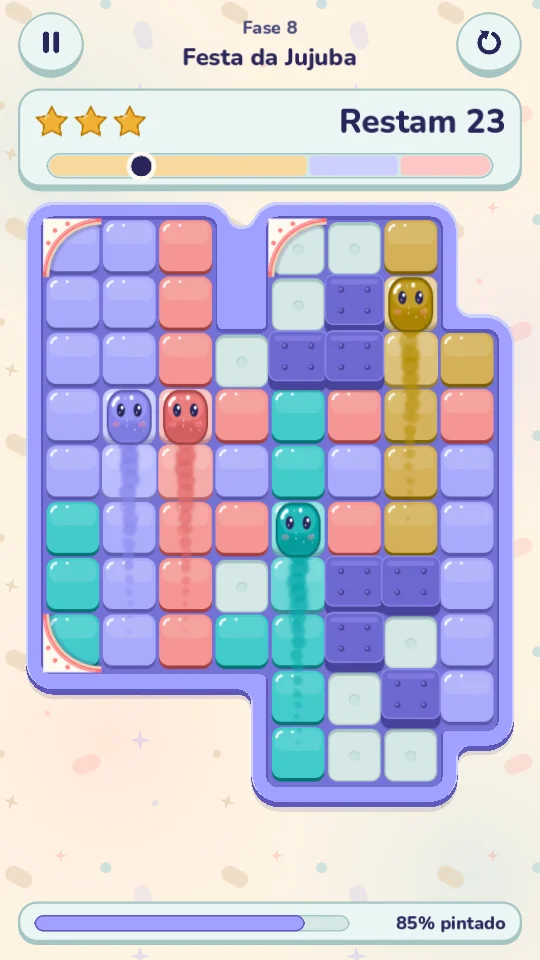
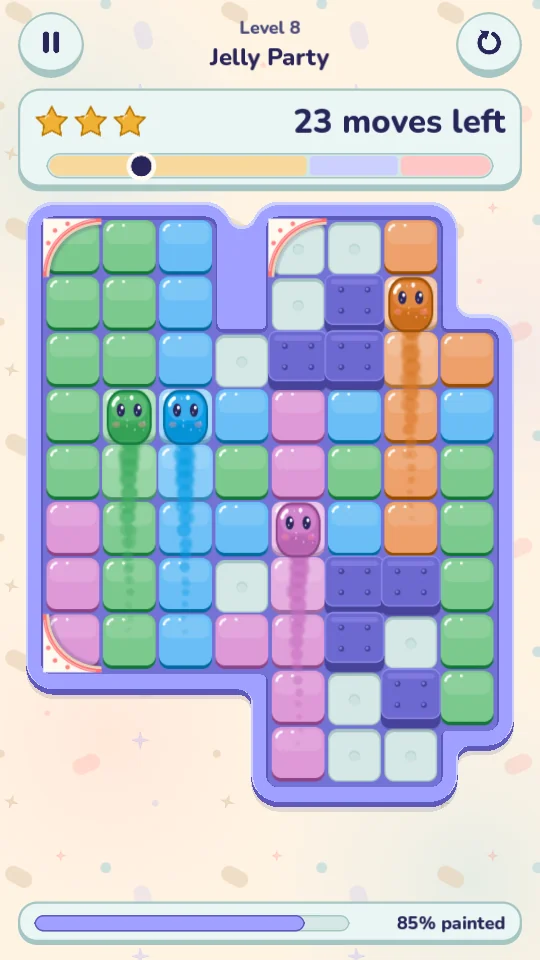
docs: update the README for v1.0.0
## Description

Update the README for the first release, with English shots and the new features.

## What

- Describe the 20 levels, the one-jelly mode, random levels, replay, English and the dark mode. Why: the old text covered 8 levels in pt-BR only
- Add a light and dark gallery and capture all shots again in English. Why: show the release as it is
- Update the harness args and events table. Why: match the final harness header
- Remove first-levels.webp. Why: no section uses it now

Changed region(s): [[0.0593, 0.2188, 0.9185, 0.8125], [0.3259, 0.0, 0.9481, 0.1562], [0.7407, 0.9375, 0.9481, 0.9688]]

diff --git a/README.md b/README.md
@@ -16,9 +16,9 @@
 > A free portrait mobile game, made with Godot 4.7.2 and GDScript. Each sound and each piece of music comes from code.
 
 <p align="center">
-  <img src="docs/readme/home.webp" width="260" alt="The home screen with the title Trilha Jujuba, a live demo board and the Jogar and Fases buttons">
+  <img src="docs/readme/home.webp" width="260" alt="The home screen with the title Trilha Jujuba, a live demo board, the theme button at the top right and the Play, Levels and Random level buttons">
   <img src="docs/readme/swipe-paint.webp" width="260" alt="Level 8 in the middle of a swipe: four jellies slide down and leave trails of paint">
-  <img src="docs/readme/result-card.webp" width="260" alt="The result card with three stars, the time, the move count and the star ranges">
+  <img src="docs/readme/result-card.webp" width="260" alt="The result card with three stars, the time, the move count, the star ranges and the Watch replay button">
 </p>
 
 ## The game
@@ -27,27 +27,42 @@
 - One to four jellies sit on the board. Each jelly has its own color.
 - Swipe to move the jellies. Each tile that a jelly touches takes its color.
 - Paint all the floor tiles to complete the level. Use as few moves as possible to get three stars.
-- The game has 8 levels, a star score for each level and a record of your best result.
-- The interface text is in Brazilian Portuguese.
+- The game has 20 levels, a one-jelly mode and endless random levels.
+- Watch a replay of your game after each win or defeat.
+- Play in English or in Brazilian Portuguese, in a light or a dark theme.
 
 ## Gallery
 
 | | |
 |---|---|
-| ![The level select screen with 8 level cards, the stars of each level, a "Nova" tag and two locked levels](docs/readme/level-select.webp) | ![Level 8 at the start: four jellies, dark obstacle blocks and three curved rails](docs/readme/level-start.webp) |
-| The level select screen shows your stars. A level opens when you get one star on the level before it. | Level 8 at the start, with four jellies, obstacles and curved rails. |
+| ![The level select screen: the first page of level cards, the stars of each level, the one-jelly switch and the page buttons](docs/readme/level-select.webp) | ![Level 8 at the start: four jellies, dark obstacle blocks and three curved rails](docs/readme/level-start.webp) |
+| The level select screen shows your stars on three pages. A level opens when you get one star on the level before it. | Level 8 at the start, with four jellies, obstacles and curved rails. |
 | ![A swipe to the right: the red and purple jellies slide and leave paint trails behind them](docs/readme/swipe-trails.webp) | ![The win wave: the tiles jump and flash while glitter flies from the last jelly](docs/readme/win-wave.webp) |
 | All the jellies slide at the same time and paint their path. | The last tile starts the win wave across the board. |
-| ![The HUD in tension: "Restam 3" in red and a red frame around the move meter](docs/readme/tension.webp) | ![The defeat card: a sad jelly, "Acabaram os movimentos" and the painted percentage](docs/readme/defeat-card.webp) |
+| ![The HUD in tension: three moves left in red and a red frame around the move meter](docs/readme/tension.webp) | ![The defeat card: a sad jelly, the painted percentage, Retry and Watch replay](docs/readme/defeat-card.webp) |
 | Near the move limit, the HUD turns red and the music becomes tense. | When the moves stop, the defeat card shows how much of the path you painted. |
-| ![The pause dialog with Continuar, Fases and the switches for music, sound effects, vibration and reduced motion](docs/readme/pause.webp) | ![Level 2 at the start: one orange jelly and a column of obstacles](docs/readme/first-levels.webp) |
-| The pause dialog holds the music, sound, vibration and reduced motion switches. | The first levels teach the rules with one jelly. |
+| ![A replay in progress: the board plays the moves again, with the move counter and "Tap to go back" at the bottom](docs/readme/replay.webp) | ![Level 8 in one-jelly mode: one jelly and some new walls on the same board](docs/readme/one-jelly.webp) |
+| Watch your own game again, move by move. | One-jelly mode: the same level with one jelly, a new puzzle and its own stars. |
+| ![A random level: a new board, with "Random level" and the seed in the HUD](docs/readme/random-level.webp) | ![The pause dialog with Resume, Levels, the one-jelly switch, and the music, sound effects, vibration, reduced motion, language and dark mode rows](docs/readme/pause.webp) |
+| Random levels never end. Each one has a seed and a solution. | The pause dialog holds the modes and the settings. |
+
+### Light and dark
+
+| Light | Dark |
+|---|---|
+| ![The home screen in the light theme, with the moon button at the top right](docs/readme/theme-home-light.webp) | ![The home screen in the dark theme, with the sun button at the top right](docs/readme/theme-home-dark.webp) |
+| ![The level select screen in the light theme](docs/readme/theme-levels-light.webp) | ![The level select screen in the dark theme](docs/readme/theme-levels-dark.webp) |
+| ![Level 8 in the middle of a swipe, in the light theme](docs/readme/theme-play-light.webp) | ![Level 8 in the middle of a swipe, in the dark theme](docs/readme/theme-play-dark.webp) |
+| ![The pause dialog in the light theme](docs/readme/theme-pause-light.webp) | ![The pause dialog in the dark theme](docs/readme/theme-pause-dark.webp) |
+
+The jellies keep the same colors in the two themes. Tap the moon or the sun at the top right of the home screen to change the theme.
 
 ## Contents
 
 - [The game](#the-game)
 - [Gallery](#gallery)
 - [How to play](#how-to-play)
+- [Modes](#modes)
 - [Features](#features)
 - [Download](#download)
 - [Build from source](#build-from-source)
@@ -75,7 +90,7 @@
 
 - A swipe counts as a move only when at least one jelly changes its position.
 - A swipe into a wall does not count. The jellies only give a small nudge.
-- Each level has a move limit. The HUD shows the moves that remain ("Restam").
+- Each level has a move limit. The HUD shows the moves that remain.
 - Near the limit, the tension starts: the meter turns red and the music changes.
 
 ### Win, lose and stars
@@ -87,10 +102,42 @@
 - The move meter shows the star ranges. When a move drops a star, the star falls from the HUD.
 - The result card shows your time, your moves and the move range for 3 stars.
 
+## Modes
+
+### Levels
+
+- 20 levels on three pages of the level select screen. You can get 60 stars.
+- Level 1 is always open. A level opens when you get one star on the level before it, in any mode.
+- The level hints teach the rules: the curved rails, a stopped jelly as a wall, and two jellies that go to the same tile.
+
+### One-jelly mode
+
+- Turn it on with the "1 jelly" switch on the level select screen, or with the "One jelly" switch in the pause dialog.
+- Each level with two or more jellies becomes a new puzzle with one jelly. Some floor tiles become walls.
+- Levels 1 to 3 have one jelly already, so they do not change.
+- The mode has its own minimum moves, its own stars and its own records.
+- When you change the mode in the pause dialog, the level starts again when you continue.
+
+### Random levels
+
+- Push "Random level" on the home screen, or "New random" on the result card or the defeat card.
+- Each random level comes from a seed. The HUD shows the seed.
+- The game makes a new board, solves it and keeps it only when the puzzle is good. A short loading screen can show during this work.
+- A random level has 1 or 2 jellies, or 1 jelly in one-jelly mode.
+- Random levels give stars, but the game keeps no record of them.
+
+### Replay
+
+- After a win or a defeat, push "Watch replay" on the card.
+- The board goes back to the start and plays your moves again, one by one.
+- Tap the screen, or push Esc, to stop the replay.
+
 ## Features
 
-- **8 levels** with 1 to 4 jellies, obstacles and curved rails. Each level has a name.
-- **Star score and records.** The game keeps the stars, the best move count and the best time of each level.
+- **20 levels** with 1 to 4 jellies, obstacles and curved rails. Each level has a name.
+- **Star score and records.** The game keeps the stars, the best move count and the best time of each level, in each mode.
+- **Two languages.** English and Brazilian Portuguese, with the level names. The game uses the language of the device. Change it in the pause dialog.
+- **Light and dark themes.** A dark "night candy" palette. Use the round button at the top right of the home screen, or the "Dark mode" row below "Language" in the pause dialog. The theme changes at once, behind a short cover. The game stays on the same screen and in the same state, also in a replay or a random level. The game keeps your choice. With no choice, it follows the device.
 - **Procedural audio.** A script makes all 17 sound effects and the 2 music loops from code. The game keeps them as WAV files.
 - **Adaptive music.** A calm loop plays during the level. The tense loop starts near the move limit, on the beat.
 - **The music opens as you paint.** A filter on the music opens as the board fills with paint.
@@ -99,7 +146,7 @@
 - **Live demo board.** The home screen plays a small level again and again behind the buttons.
 - **Reduced motion.** A switch in the pause dialog makes the shake, the waves, the hit-stop and the particles smaller.
 - **Haptics.** A short vibration when the jellies stop, on phones only. A switch in the pause dialog turns it off.
-- **Performance panel.** Press F3, or long-press the "Pausa" title in the pause dialog. It shows FPS, frame, script, draw and render times, draw calls and the device and GPU names.
+- **Performance panel.** Press F3, or long-press the title of the pause dialog. It shows FPS, frame, script, draw and render times, draw calls and the device and GPU names.
 - **Light on the GPU.** The board art and the vector UI art are baked into atlases, to keep the draw calls low on phones.
 - **Keyboard.** Arrow keys or WASD to swipe, R to restart, Esc or P to pause, F3 for the performance panel.
 
@@ -154,11 +201,11 @@ On WSL, `tools/export.sh` does the full export. It checks the levels, loads each
 
 - `autoload/`: the global nodes: `Game`, `Bus` (signals), `Save`, `Sfx`, `Music`, `Feel`, `Tuning`, `Harness` and `PerfPanel`.
 - `scenes/main/`: the main scene. `scenes/dev/` holds the board and UI lab scenes, which the exports do not include.
-- `scripts/core/`: the pure rules: level parser, level data, par data, slide rules, score rules, session and solver.
-- `scripts/board/`: the board view: jellies, swipe playback, ceremonies, effects, texture bank and the demo board.
-- `scripts/ui/`: the screens, the HUD, the cards, the pause dialog, the text strings and the theme.
+- `scripts/core/`: the pure rules: level parser, level data, par data, slide rules, score rules, session, solver, one-jelly variants and the random level generator.
+- `scripts/board/`: the board view: jellies, swipe playback, replay, ceremonies, effects, texture bank and the demo board.
+- `scripts/ui/`: the screens, the HUD, the cards, the pause dialog, the loading screen, the replay overlay, the text strings in two languages and the theme.
 - `scripts/audio/`: the audio bank and the audio tuning. `scripts/input/` holds the swipe input.
-- `tools/`: the audio bake, the level solver, the load check and `export.sh`.
+- `tools/`: the audio bake, the level solver, the random level check, the load check and `export.sh`.
 - `audio/`: the baked WAV files. `art/icon/` holds the Android icons. `ui/fonts/` holds the Nunito font.
 - `docs/readme/`: the images of this README.
 - `PRIMITIVES.md`: the inventory of the shared contracts of the code.
@@ -171,10 +218,16 @@ Check that each level has a solution and that `par_data.gd` agrees with it:
 godot --headless --path . --script res://tools/levels_tool.gd -- --check
 ```
 
-After a level change, write the new minimum moves into `par_data.gd`:
+After a level change, write the new minimum moves and the one-jelly variants into `par_data.gd`:
 
 ```sh
 godot --headless --path . --script res://tools/levels_tool.gd -- --write
+```
+
+Check the random level generator on 200 seeds:
+
+```sh
+godot --headless --path . --script res://tools/random_tool.gd -- --count=200
 ```
 
 Make all the WAV files again from the code in `tools/audio/`:
@@ -189,12 +242,26 @@ The `Harness` autoload reads arguments after `--`. With no argument, it does not
 
 | Argument | What it does |
 |---|---|
-| `--level=<n>` | Starts level n (1 to 8). |
+| `--level=<n>` | Starts level n (1 to 20). |
 | `--moves=<UDLR>` | Sends the swipes as touch drags, for example `--moves=URUUR`. |
 | `--keys=<UDLR>` | Sends the swipes as key presses. |
-| `--solve` | Plays the solution of the level with the minimum moves. |
+| `--solve` | Plays the solution of the level with the minimum moves. It also works in one-jelly mode and on a random level. |
 | `--play-all` | Solves each level in sequence. |
 | `--screen=home\|levels\|pause` | Opens that screen. `pause` opens after the scripted moves. |
+| `--page=<n>` | With `--screen=levels`, opens page n of the level select screen. |
+| `--solo` | Turns on the one-jelly mode. Needs `--save`. `--solve` and `--play-all` then play the one-jelly version. |
+| `--random[=<seed>]` | Plays a random level, with this seed or a new seed. Does not combine with `--level`, `--play-all` or `--screen`. |
+| `--random-hold=<ms>` | Holds the random level for this time, so the loading screen shows. |
+| `--random-map` | Prints each row of the random map. |
+| `--replay` | Plays the replay when the result card or the defeat card is at rest. Needs `--level` or `--random`. |
+| `--replay-stop-at=<n>` | Stops the replay at move n. |
+| `--lang=pt\|en` | Forces the language for this run. The save does not change. |
+| `--set-lang=pt\|en` | Changes the language through the save at the last state of the run. Needs `--save`. |
+| `--theme=light\|dark` | Forces the theme for this run. The save does not change. |
+| `--switch-theme=light\|dark` | Changes the theme through the save at the `--switch-on` event, as the dark mode row does. |
+| `--switch-on=<event>` | Sets the event for `--switch-theme` (`home` by default). |
+| `--tap=theme` | Sends a real touch to the theme button of the home screen at the `--tap-on` event. |
+| `--tap-on=<event>` | Sets the event for `--tap` (`home` by default). |
 | `--shot=<png> --frames=<n>` | Saves one screenshot after n frames, then quits. |
 | `--shots=<dir> --shot-on=<events>` | Saves a screenshot at each named event. `*` captures all events. |
 | `--quit-at=<event>` | Quits at that event. |
@@ -206,13 +273,14 @@ The `Harness` autoload reads arguments after `--`. With no argument, it does not
 | `--state-log` | Prints the state after each swipe and the result at the end. |
 | `--perf-summary`, `--frame-log` | Prints the frame times, or logs each frame above 25 ms. |
 | `--timeout=<s>` | Stops a stuck run (60 s by default). |
+| `--time-scale=<f>` | Sets the base time scale of the game. |
 
-The events are `home`, `levels`, `level_ready`, `move_<n>_mid`, `move_<n>_end`, `tense`, `win_wave`, `result`, `defeat_wave`, `defeat_card` and `pause`.
+The events are `home`, `levels`, `level_ready`, `move_<n>_mid`, `move_<n>_end`, `tense`, `win_wave`, `result`, `defeat_wave`, `defeat_card`, `pause`, `loading`, `random_ready`, `replay_start`, `replay_move_<n>`, `replay_end`, `lang`, `theme_switched` and `tap`.
 
-Run screenshots in a window, never with `--headless`, because the headless renderer draws nothing. Use `--fixed-fps 60`, so each frame lands at the same moment in each run. This command solves level 8 and saves a screenshot at each event:
+Run screenshots in a window, never with `--headless`, because the headless renderer draws nothing. Use `--fixed-fps 60`, so each frame lands at the same moment in each run. Always pass `--save` with a test file, so the run does not change your own save. This command solves level 8 and saves a screenshot at each event:
 
 ```sh
-godot --path . --fixed-fps 60 --audio-driver Dummy -- --unlock-all --level=8 --solve --shots=/absolute/path/to/shots --shot-on='*'
+godot --path . --fixed-fps 60 --audio-driver Dummy -- --save=/absolute/path/to/test-save.cfg --theme=light --lang=en --unlock-all --level=8 --solve --shots=/absolute/path/to/shots --shot-on='*'
 ```
 
 ## License
